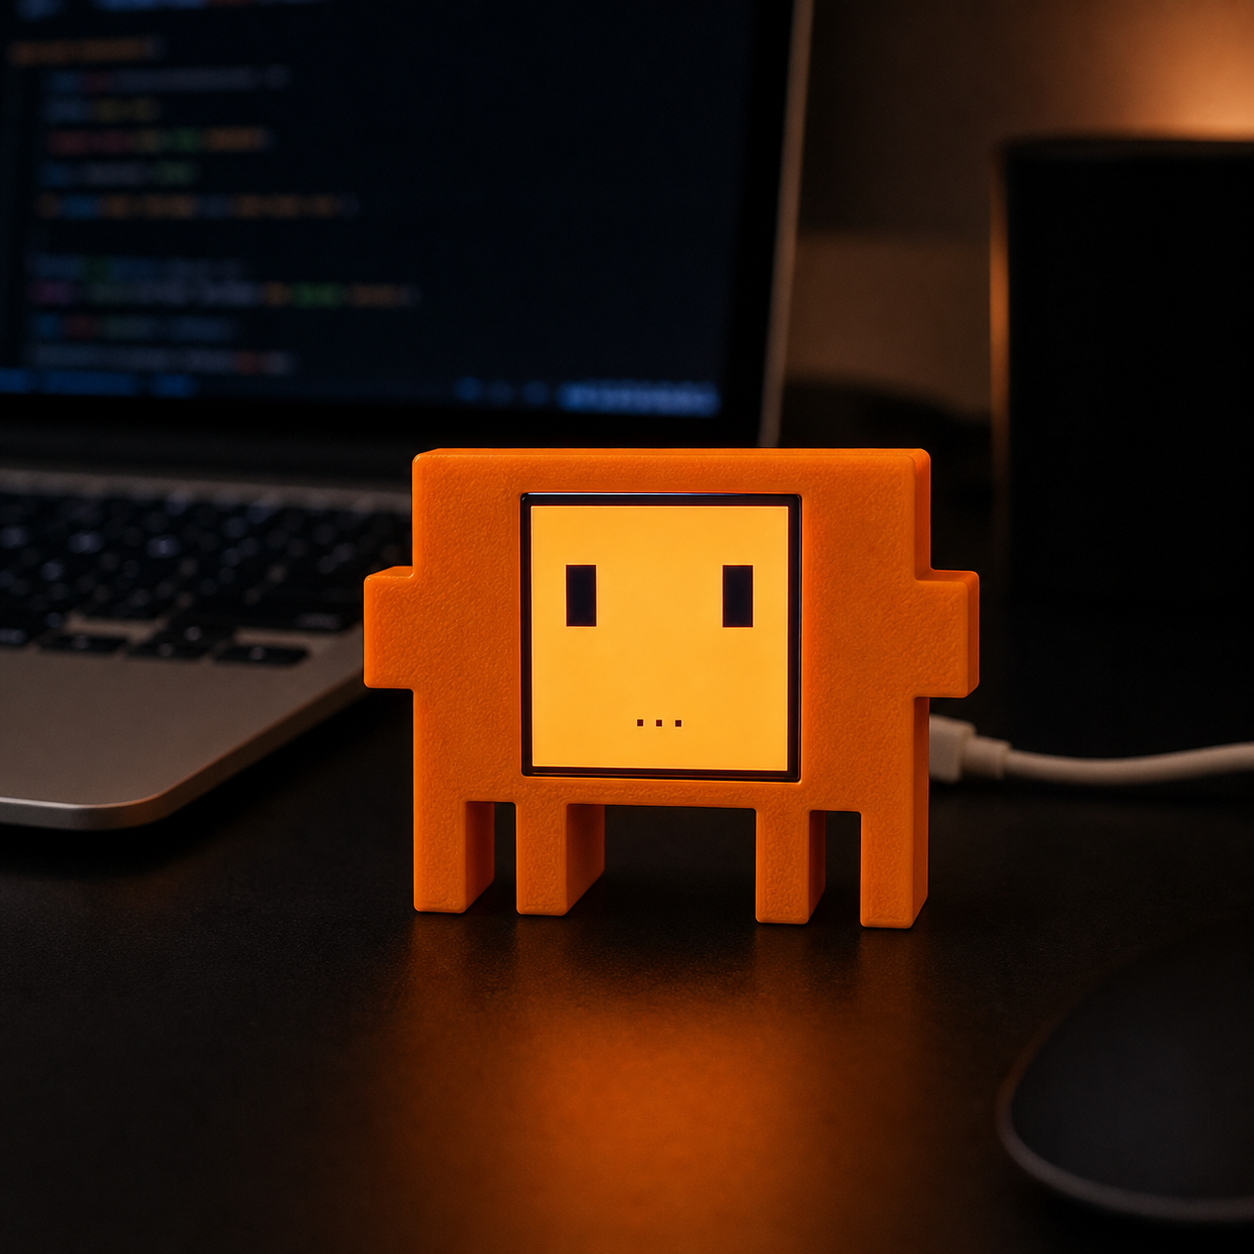
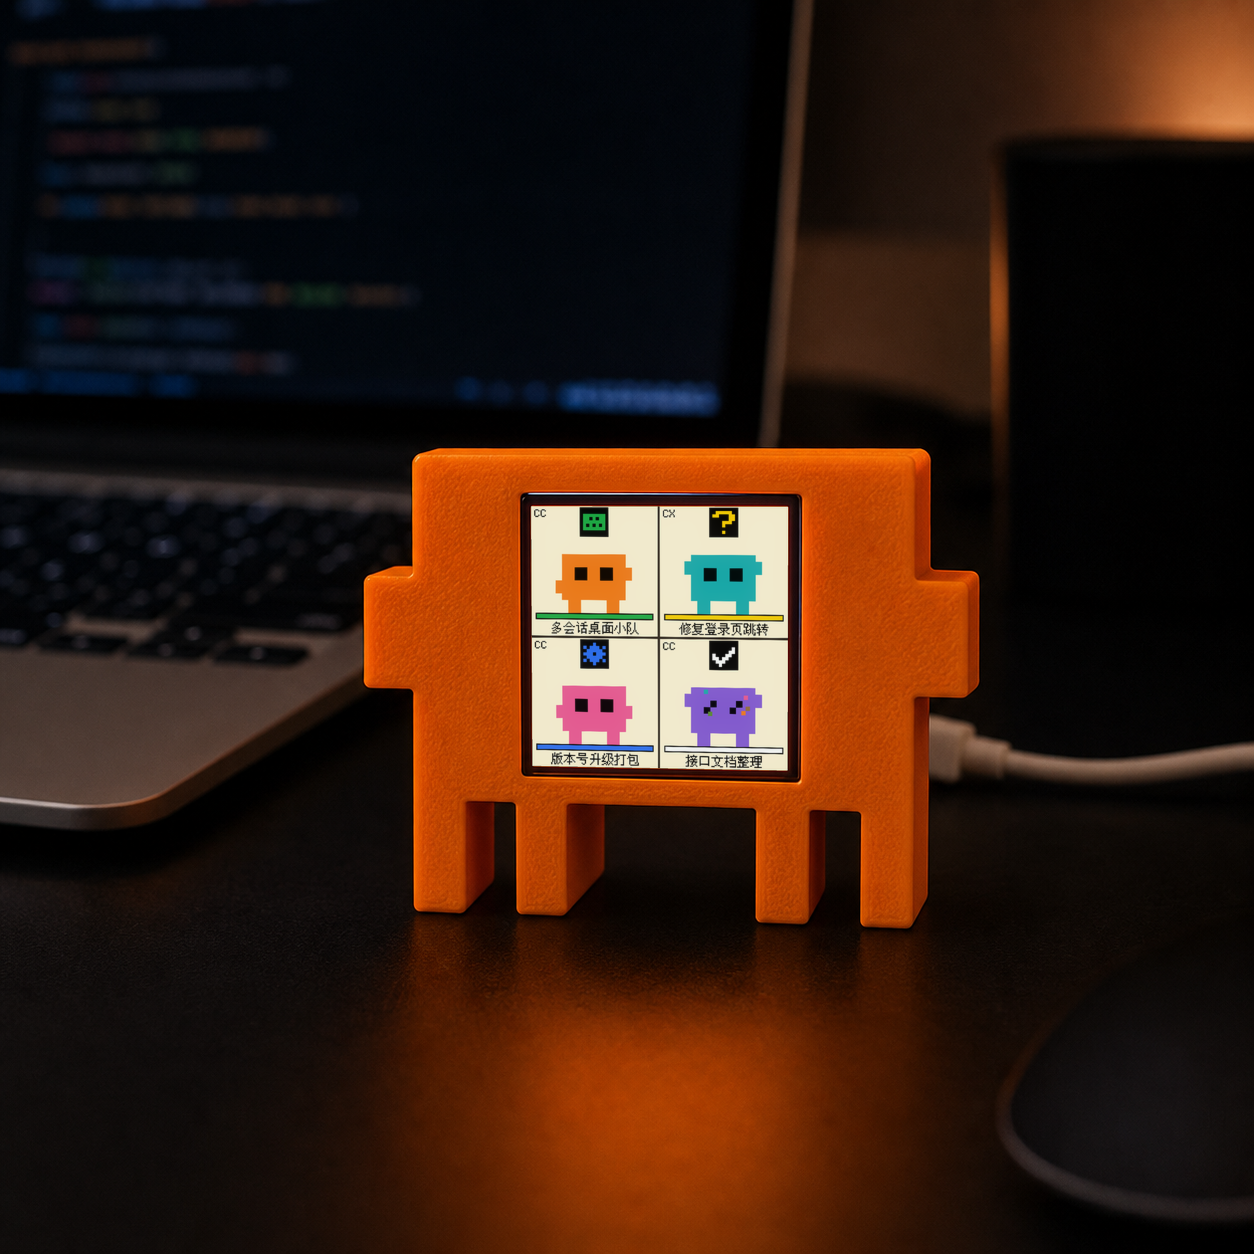
docs(readme): show the squad screen in the hero images
Screens are composited from frames rendered by the firmware code, not photographed.

Changed region(s): [[0.4043, 0.4043, 0.6531, 0.622]]

diff --git a/README.md b/README.md
@@ -5,8 +5,8 @@ ESP32-C3 + ST7789 1.54" TFT 桌面摆件，USB 串口实时显示 **Claude Code*
 以 [Apache License 2.0](LICENSE) 开源。
 
 <p align="center">
-  <img src="images/hero.png" width="48%" alt="clawd-mood on a coding desk, eyes showing the working face next to a MacBook" />
-  <img src="images/with-claude-pandas.jpg" width="48%" alt="clawd-mood in sleeping mode flanked by two Claude panda figurines" />
+  <img src="images/hero.png" width="48%" alt="clawd-mood on a coding desk next to a MacBook, its screen showing four sessions as a squad of pixel creatures" />
+  <img src="images/with-claude-pandas.jpg" width="48%" alt="clawd-mood showing three sessions, flanked by two Claude panda figurines" />
 </p>
 
 ## 准备
